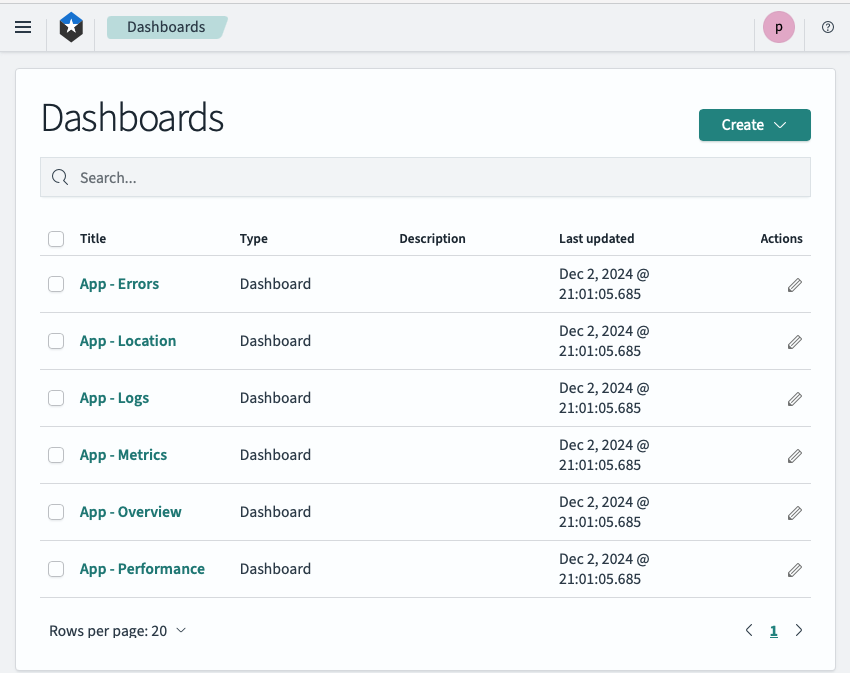
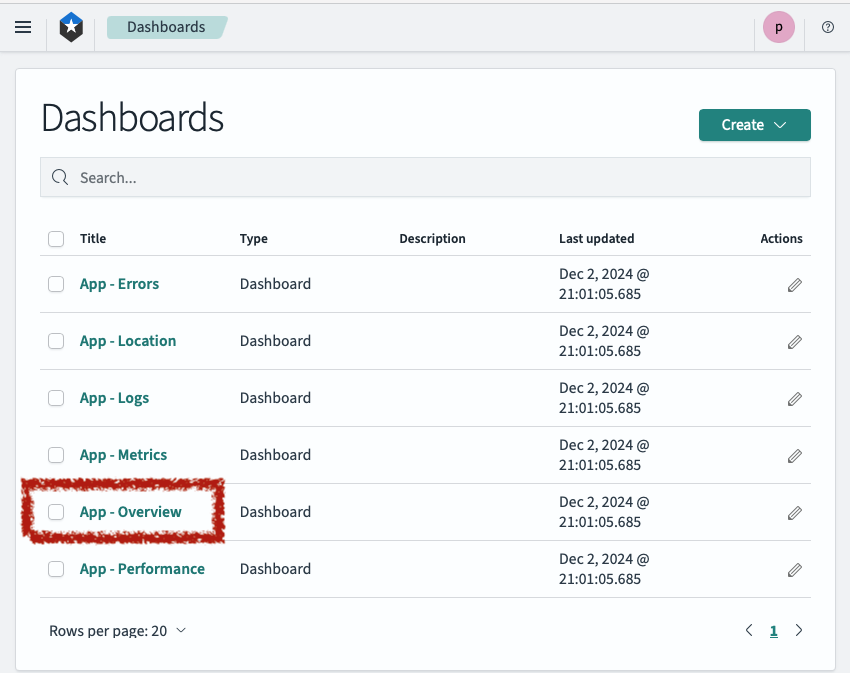
Fix screenshots and links to them

Changed region(s): [[0.0, 0.6865, 0.2753, 0.8113]]

diff --git a/_kbarticles/2024-11-26-migrating-opensearch.md b/_kbarticles/2024-11-26-migrating-opensearch.md
@@ -25,21 +25,20 @@ with the following OpenId "Application Authorization" dialog:
 !['Screenshot of dialog box titled "Application Authorization: opensearch_dashboards_proxy" with boxes checked for "Access profile", "View details of your applications and services" and "Read all SCIM entries". The options are "Authorize" or "Deny"']({{site.baseurl}}/assets/images/content/opensearch-app-auth-dialog.png)
 
 You'll need to accept all the scopes. If for some reason you need to revoke
-access later, you can do so at: https://login.fr.cloud.gov/profile
+access later, you can do so at: <https://login.fr.cloud.gov/profile>
 
 You'll then need to choose the Cloud.gov org you want to work with in the "Select you Tenant" dialog:
 
-!['Screenshot of dialog box titled "Select your tenant"']({{site.baseurl}}/assets/images/content/_assets/images/content/opensearch_select_tenant.png)
+!['Screenshot of dialog box titled "Select your tenant"']({{site.baseurl}}/assets/images/content/opensearch_select_tenant.png)
 
 If you have access to multiple orgs, you can switch your tenant later by clicking the OpenSearch user avatar on top right.
 
 The main OpenSearch Dashboard should resemble the Kibana dashboard. If you're provided a 
-Dashboard selection screen (see below), choose "App - Overview".  Otherwise the main
-navigation menus should be familiar and you're now ready to explore your Cloud.gov logs
-with OpenSearch.
+Dashboard selection screen (see below), choose "App - Overview".  
 
 !['Screenshot of dialog box titled "Dashboards"']({{site.baseurl}}/assets/images/content/opensearch_choose_dashboard.png)
 
+Otherwise the main navigation menus should be familiar and you're now ready to explore your Cloud.gov logs with OpenSearch.
 
 ## Migrating Kibana customizations to OpenSearch
 
@@ -50,6 +49,8 @@ from Kibana and importing them into OpenSearch.
 
 **Export Saved Objects from Kibana**
 
+
+
 In Kibana, use the left navigation menu to select "Management" -> "Stack Management":
 
 !['Screenshot of Kibana leftnav with "Stack Management" highlighted']({{site.baseurl}}/assets/images/content/kibana_select_stack_mgmt.png)
@@ -58,16 +59,12 @@ Then in the Stack Management view, select "Saved Objects" under the "Kibana" hea
 
 !['Screenshot of Kibana Stack Management with "Saved Objects" highlighted']({{site.baseurl}}/assets/images/content/kibana_select_saved_objects.png)
 
-From the Saved Objects screen, you can search for the Visualizations or
-Searches you've previously saved. The example belows shows the ones with "PeterB"
-in the name:
-
-!['Screenshot of Kibana View Saved Objects with "Export 7 Objects" highlighted']({{site.baseurl}}/assets/images/content/kibana_view_saved_objects.png)
-
-From that screen you can export all the matching objects as a single `export.ndjson` file,
+From the Saved Objects screen, you can search for the visualizations or
+searches you've previously saved. From that screen you can export all the matching objects as a single `export.ndjson` file (as shown below),
 or as individual `.ndjson` files:
 
-!['Screenshot of Kibana export single selected object']({{site.baseurl}}/assets/images/content/kibana_export_single_object.png)
+
+!['Screenshot of Kibana View Saved Objects with "Export 7 Objects" highlighted']({{site.baseurl}}/assets/images/content/kibana_view_saved_objects.png)
 
 
 
@@ -93,6 +90,10 @@ from Kibana to OpenSearch, and Kibana is no longer available,
 please contact [Cloud.gov Support](mailto:support@cloud.gov).
 We have saved all customer objects and can recover those for you.
 
+## User interface changes
+
+- How to change your homedashboard
+- How to graph metrics
 
 ### Compare the two systems
 
@@ -103,6 +104,7 @@ your findings to Kibana. If you suspect that any log messages are missing.
 
 ## System differences
 
+RDS Logs
 
 Index exhaustion fixed
 Handling large (over 32kb) messages
@@ -112,10 +114,7 @@ Retention
 
 > @peterb another new thing in opensearch, the new cpu_entitlement metric. the meaning of the metric is discussed here: https://www.cloudfoundry.org/blog/better-way-split-cake-cpu-entitlements/ it basically is a better way for customers to track whether they're exceeding the allowed CPU for their app and borrowing CPU cycles from the host VM
 
-## User interface changes
 
-- How to change your homedashboard
-- How to graph metrics
 
 
 
